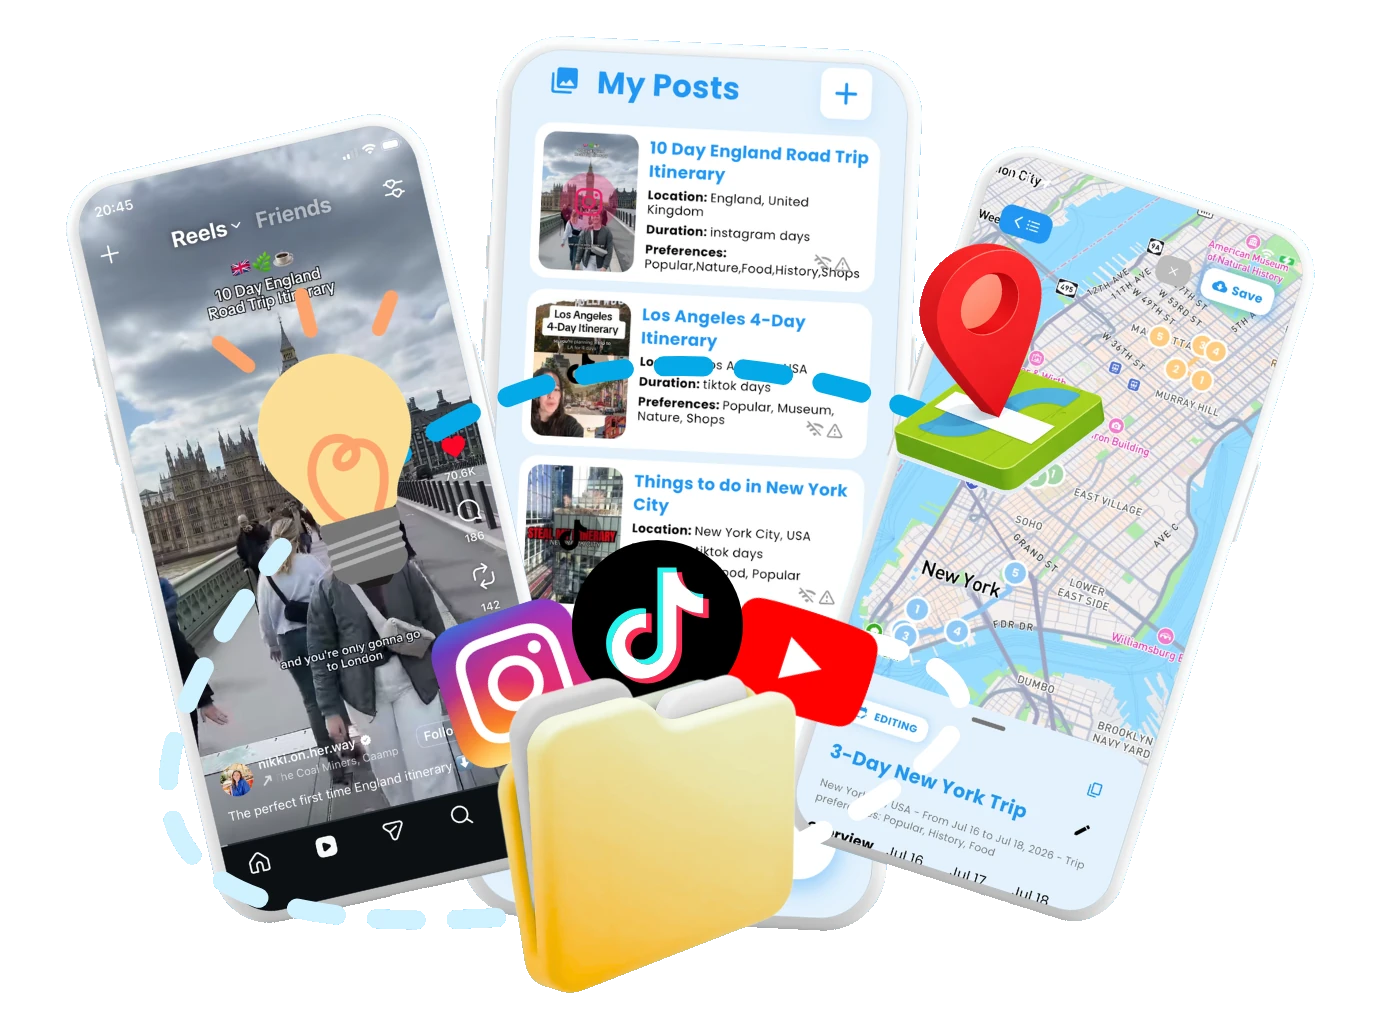
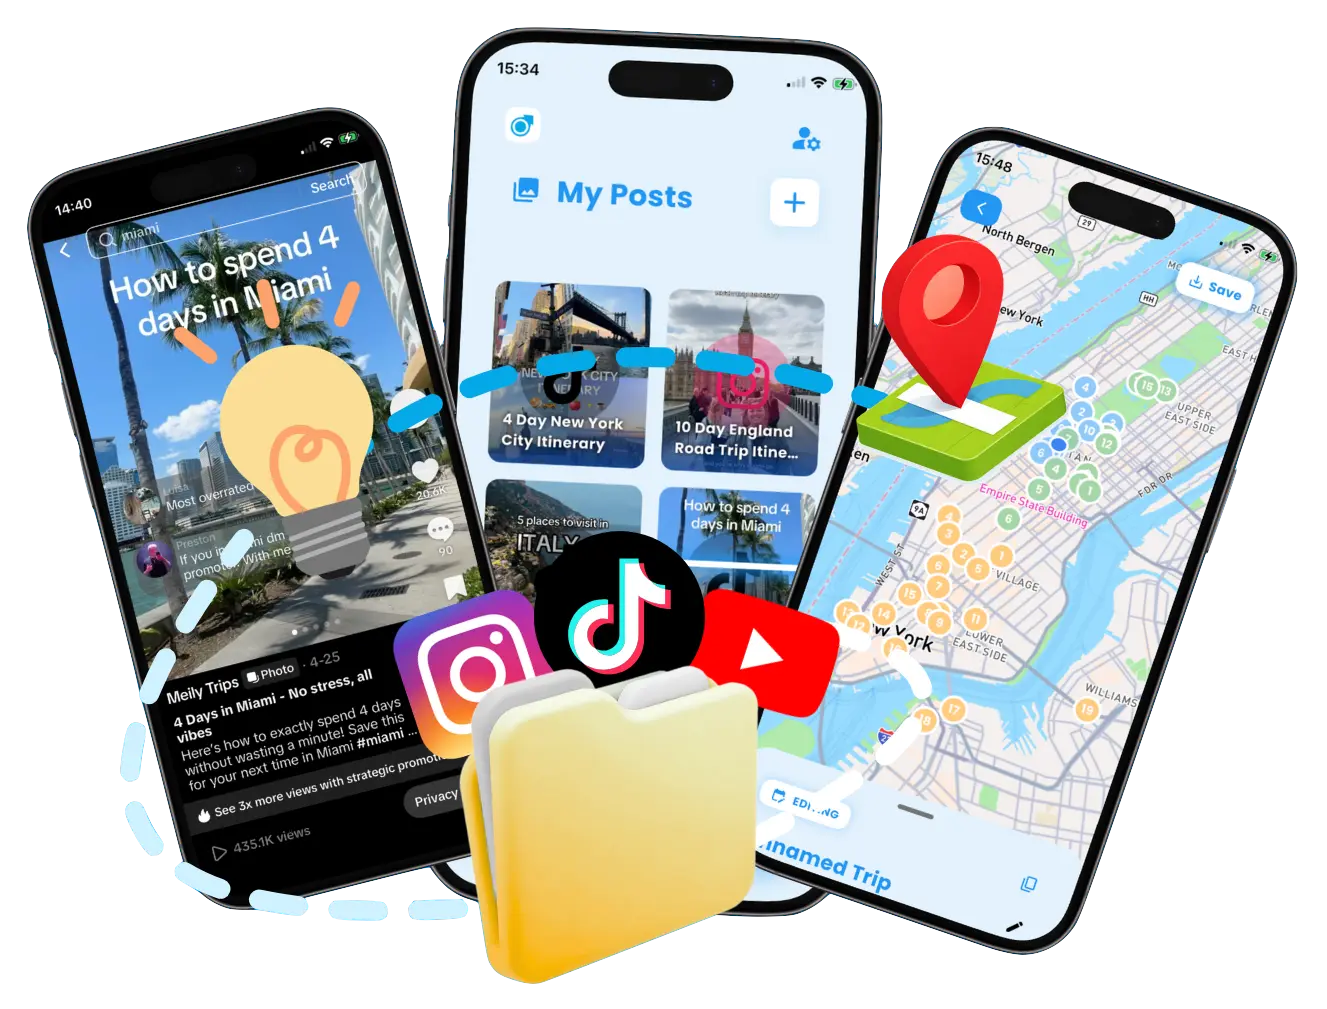
update

diff --git a/public/index.html b/public/index.html
@@ -343,7 +343,7 @@
     <div class="text-center md:px-30 text-white mb-16">
 
       <h2 class="text-4xl font-bold md:mb-3" id="how-it-works">
-        Save Posts, Plan Travel Itineraries & Go Offline
+        Save Posts, Scan Travel Itineraries, Plan Your Next Trip
       </h2>
 
     </div>
@@ -359,7 +359,7 @@
             Save Posts from Social Media
           </h3>
           <p class="text-xl md:text-xl leading-relaxed opacity-90 text-white">
-            Save posts from Instagram, TikTok, or YouTube. Meily analyzes the stops from the content and builds the itinerary for you.
+            Save reels or carrousels from Instagram, TikTok, or YouTube. Meily analyzes the stops and builds the itinerary.
           </p>
         </div>
 
@@ -395,15 +395,6 @@
 
               <div class="w-full max-w-48 flex-shrink-0 snap-center">
                 <img 
-                  src="how_to_pages/2_posts/2_1_scan/01_scanning.webp" 
-                  alt="Scan Posts & Create Trips: Scanning Post for Itinerary Creation" 
-                  class="md:w-full md:max-w-3xl object-cover"
-                  loading="lazy"
-                >
-              </div>
-
-              <div class="w-full max-w-48 flex-shrink-0 snap-center">
-                <img 
                   src="assets/index/scanned_post.webp" 
                   alt="Scan Posts & Create Trips: Scanned Days" 
                   class="md:w-full md:max-w-3xl object-cover"
@@ -418,7 +409,7 @@
       </div>
     </div>
 
-    <!-- Container Feature 2: Create Trips with AI -->
+    <!-- Container Feature 2: Create Trips -->
     <div class="mx-auto max-w-4xl mb-16 rounded-3xl overflow-hidden backdrop-blur-2xl 
          bg-white bg-opacity-20" >
       <div class="flex flex-col md:flex-row md:gap-8 p-8 md:p-12 items-center">
@@ -426,14 +417,14 @@
         <!-- Left: Image -->
         <div class="hidden md:grid grid-cols-2 justify-center">
           <img 
-            src="how_to_pages/1_trip_itineraries/1_1_create/03_interests.webp" 
-            alt="Create Trips with AI: Choose Interests" 
+            src="assets/index/choose_posts.webp" 
+            alt="Choose which posts to include in your trip" 
             class="md:w-full md:max-w-3xl object-cover"
             loading="lazy"
           >
           <img 
-            src="how_to_pages/1_trip_itineraries/1_1_create/08_choose.webp" 
-            alt="Create Trips with AI: Choose Generation Option" 
+            src="assets/index/map.webp" 
+            alt="Map with generated itinerary" 
             class="md:w-full md:max-w-3xl object-cover"
             loading="lazy"
           >
@@ -446,8 +437,8 @@
               <!-- Images inside carousel -->
               <div class="w-full max-w-48 flex-shrink-0 snap-center">
                 <img 
-                  src="how_to_pages/1_trip_itineraries/1_1_create/02_where.webp" 
-                  alt="Create Trips with AI: Choose Where to Go" 
+                  src="assets/index/choose_posts.webp" 
+                  alt="Choose which posts to include in your trip" 
                   class="md:w-full md:max-w-3xl object-cover"
                   loading="lazy"
                 >
@@ -455,44 +446,8 @@
 
               <div class="w-full max-w-48 flex-shrink-0 snap-center">
                 <img 
-                  src="how_to_pages/1_trip_itineraries/1_1_create/03_interests.webp" 
-                  alt="Create Trips with AI: Choose Interests" 
-                  class="md:w-full md:max-w-3xl object-cover"
-                  loading="lazy"
-                >
-              </div>
-
-              <div class="w-full max-w-48 flex-shrink-0 snap-center">
-                <img 
-                  src="how_to_pages/1_trip_itineraries/1_1_create/06_dates.webp" 
-                  alt="Create Trips with AI: Choose Dates" 
-                  class="md:w-full md:max-w-3xl object-cover"
-                  loading="lazy"
-                >
-              </div>
-
-              <div class="w-full max-w-48 flex-shrink-0 snap-center">
-                <img 
-                  src="how_to_pages/1_trip_itineraries/1_1_create/07_transport.webp" 
-                  alt="Create Trips with AI: Choose Transport" 
-                  class="md:w-full md:max-w-3xl object-cover"
-                  loading="lazy"
-                >
-              </div>
-
-              <div class="w-full max-w-48 flex-shrink-0 snap-center">
-                <img 
-                  src="how_to_pages/1_trip_itineraries/1_1_create/08_choose.webp" 
-                  alt="Create Trips with AI: Choose Generation Option" 
-                  class="md:w-full md:max-w-3xl object-cover"
-                  loading="lazy"
-                >
-              </div>
-
-              <div class="w-full max-w-48 flex-shrink-0 snap-center">
-                <img 
-                  src="how_to_pages/1_trip_itineraries/1_1_create/10_trip_ai.webp" 
-                  alt="Create Trips with AI: Created Trip Itinerary" 
+                  src="assets/index/map.webp" 
+                  alt="Map with generated itinerary" 
                   class="md:w-full md:max-w-3xl object-cover"
                   loading="lazy"
                 >
@@ -504,18 +459,18 @@
         <!-- Right: Text -->
         <div class="space-y-1 md:space-y-6">
           <h3 class="text-2xl md:text-4xl font-bold text-white">
-            Create Trips in a Few Clicks
+            Create Trips from Saved Posts
           </h3>
           <p class="text-xl leading-relaxed opacity-90 text-white">
-            Choose where you want to go, how many days you have, and your trip preferences.
-            Meily will create a full itinerary for you.
+            Choose which of the scanned posts you want to include in your trip.
+            Meily will combine them into a single itinerary.
           </p>
         </div>
 
       </div>
     </div>
 
-    <!-- Container Feature 3: Offline maps -->
+    <!-- Container Feature 3: Save Trips and Posts -->
     <div class="mx-auto max-w-4xl rounded-3xl overflow-hidden backdrop-blur-2xl 
          bg-white bg-opacity-20" >
       <div class="flex flex-col md:flex-row md:gap-8 p-8 md:p-12 items-center">
@@ -523,25 +478,25 @@
         <!-- Left: Text -->
         <div class="space-y-1 md:space-y-6 order-2 md:order-1">
           <h3 class="text-2xl md:text-4xl font-bold text-white">
-            Save Your Trips for Offline Use
+            Save & Organize Your Trips
           </h3>
           <p class="text-xl leading-relaxed opacity-90 text-white">
-            Once your trip is created, you can save it and use it offline.
-            Your itinerary and the map will be available even without internet connection.
+            Once your trip is created, you can save it and organize other trips.
+            Your itinerary will be available when you start your journey.
           </p>
         </div>
 
         <!-- Right: Image -->
         <div class="hidden md:grid grid-cols-2 justify-center order-1 md:order-2">
           <img 
-            src="assets/index/feature_3_offline_trips.webp" 
-            alt="Offline trips: home page with offline map" 
+            src="assets/index/map_days.webp" 
+            alt="Itinerary days overview with save button" 
             class="md:w-full md:max-w-3xl object-cover"
             loading="lazy"
           >
           <img 
-            src="assets/index/feature_3_offline_map.webp" 
-            alt="Offline trips: map with offline indicator" 
+            src="assets/index/saved_trips.webp" 
+            alt="Saved trips: list of created itineraries" 
             class="md:w-full md:max-w-3xl object-cover"
             loading="lazy"
           >
@@ -554,8 +509,8 @@
               <!-- Images inside carousel -->
               <div class="w-full max-w-48 flex-shrink-0 snap-center">
                 <img 
-                  src="assets/index/feature_3_offline_trips.webp" 
-                  alt="Offline trips: home page with offline map" 
+                  src="assets/index/map_days.webp" 
+                  alt="Itinerary days overview with save button" 
                   class="md:w-full md:max-w-3xl object-cover"
                   loading="lazy"
                 >
@@ -563,8 +518,8 @@
 
               <div class="w-full max-w-48 flex-shrink-0 snap-center">
                 <img 
-                  src="assets/index/feature_3_offline_map.webp" 
-                  alt="Offline trips: map with offline indicator" 
+                  src="assets/index/saved_trips.webp" 
+                  alt="Saved trips: list of created itineraries" 
                   class="md:w-full md:max-w-3xl object-cover"
                   loading="lazy"
                 >
